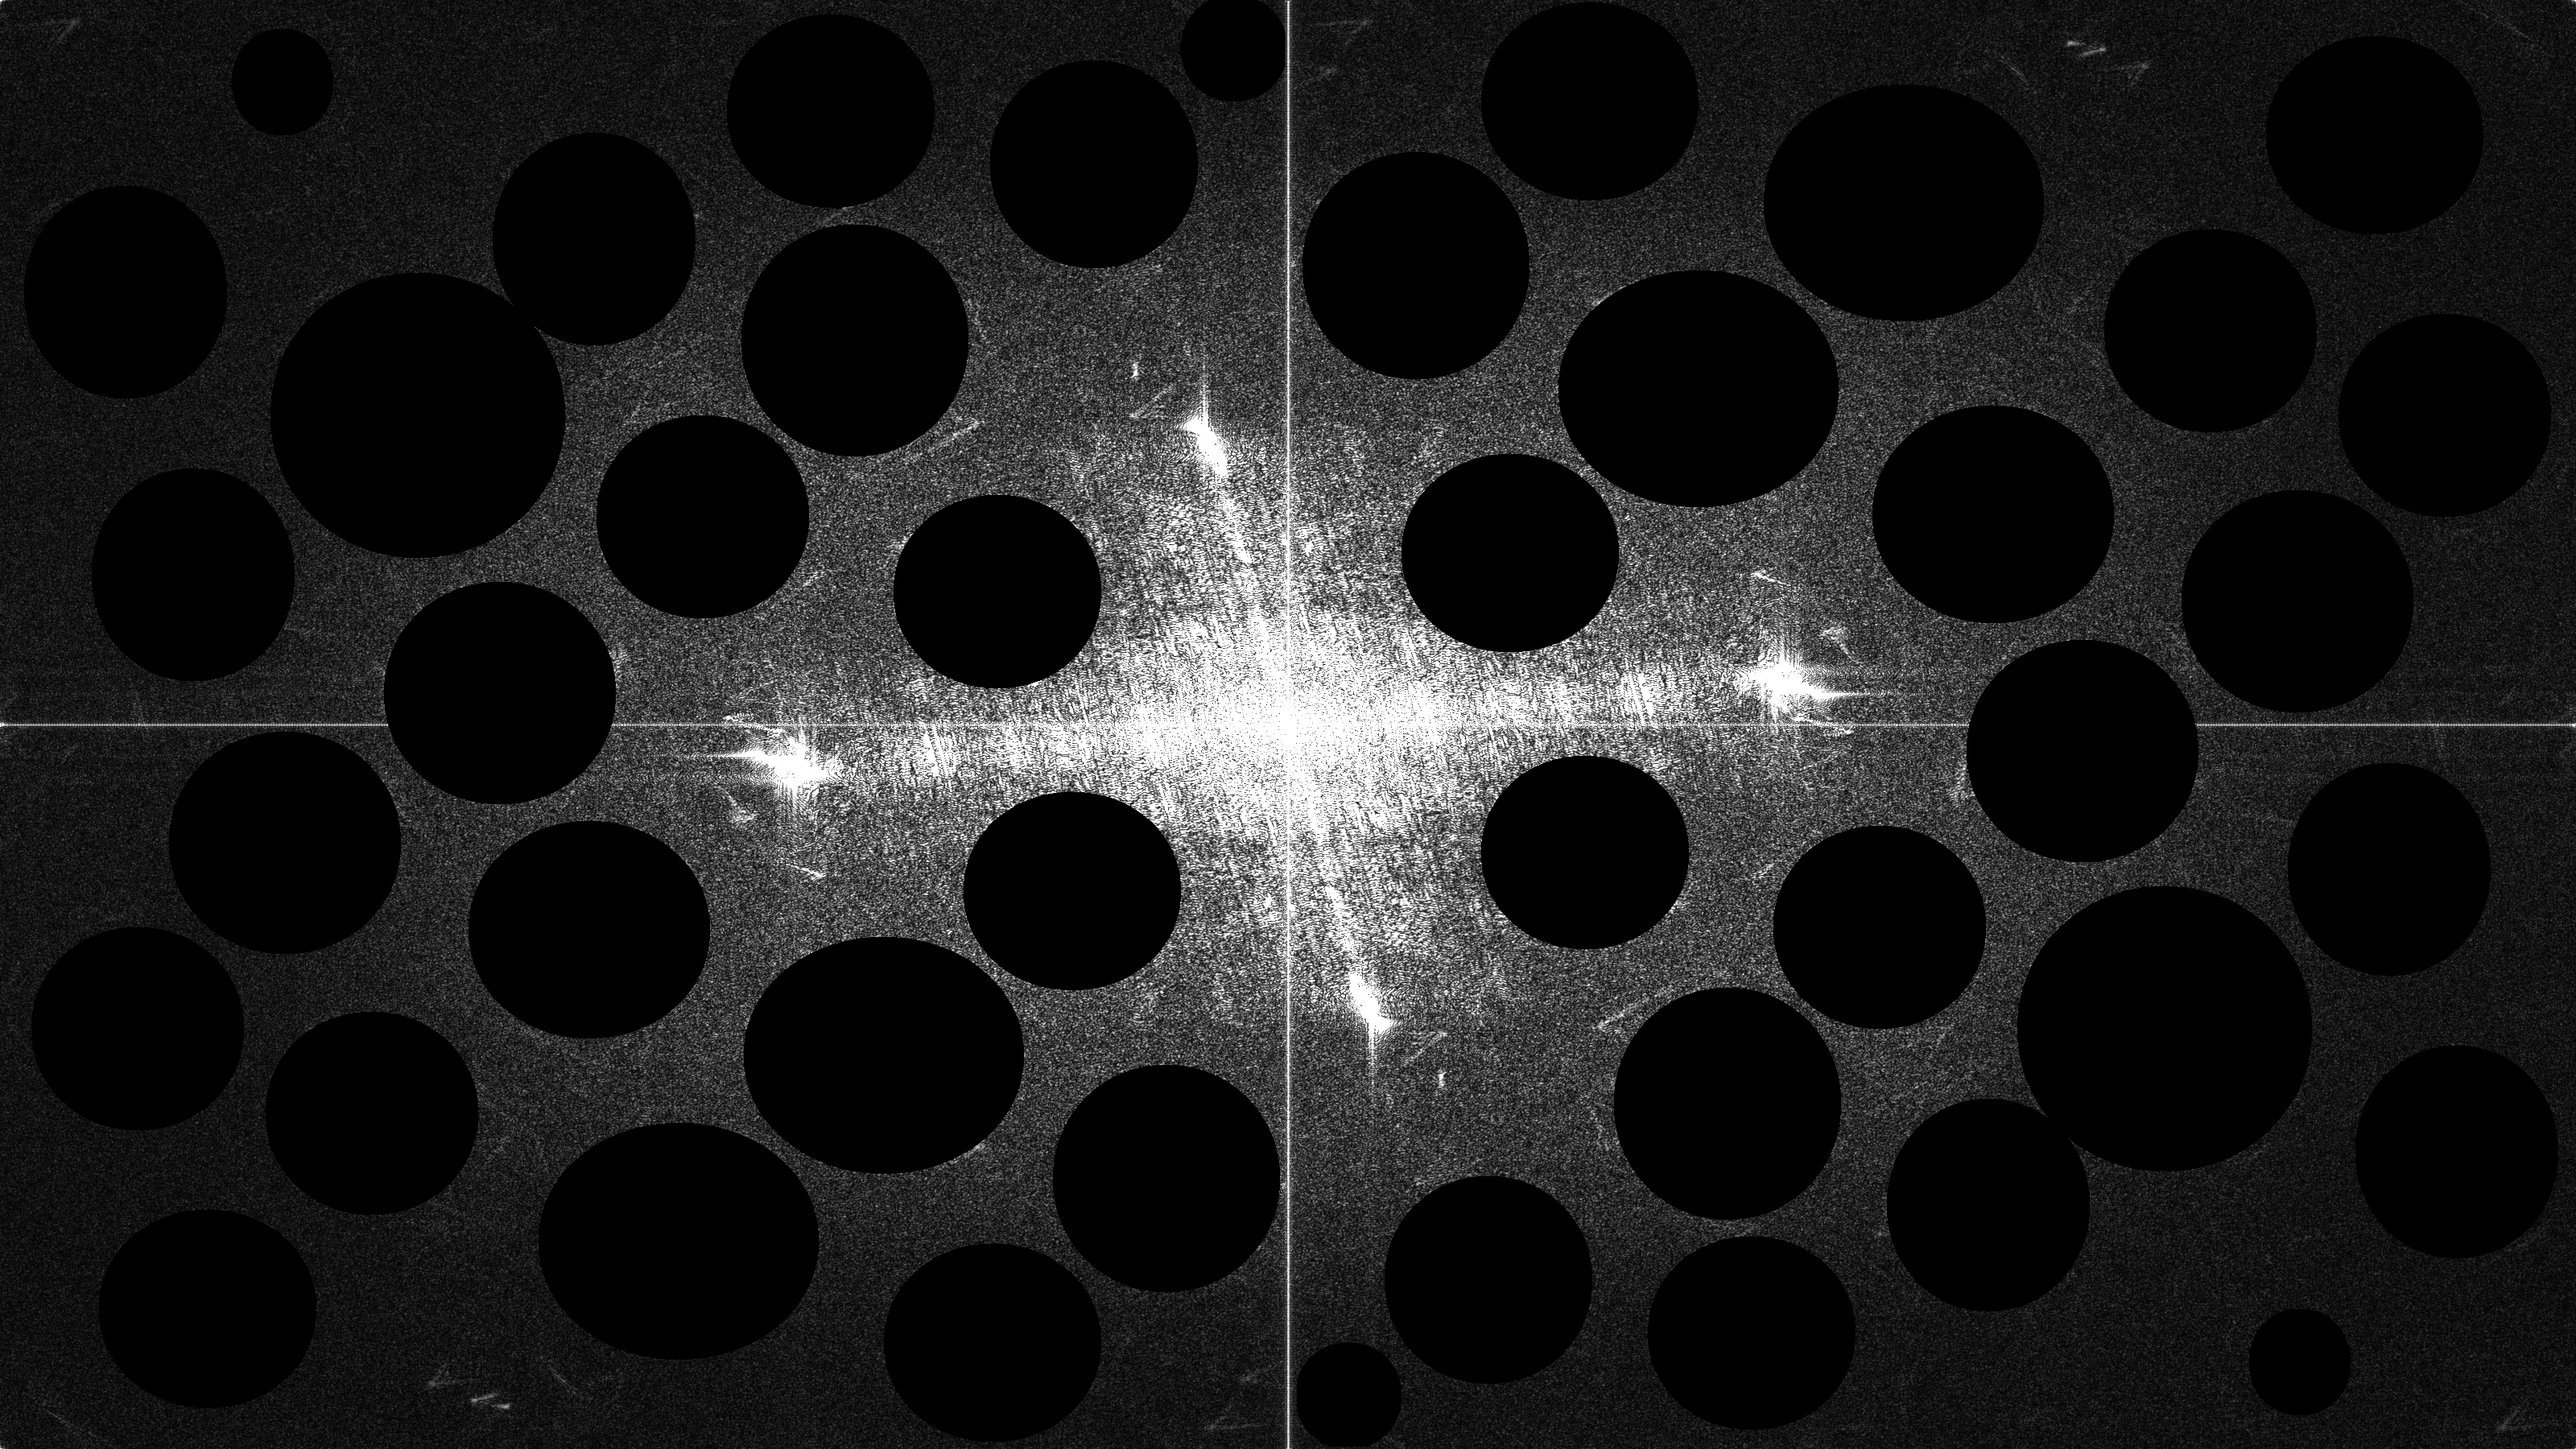
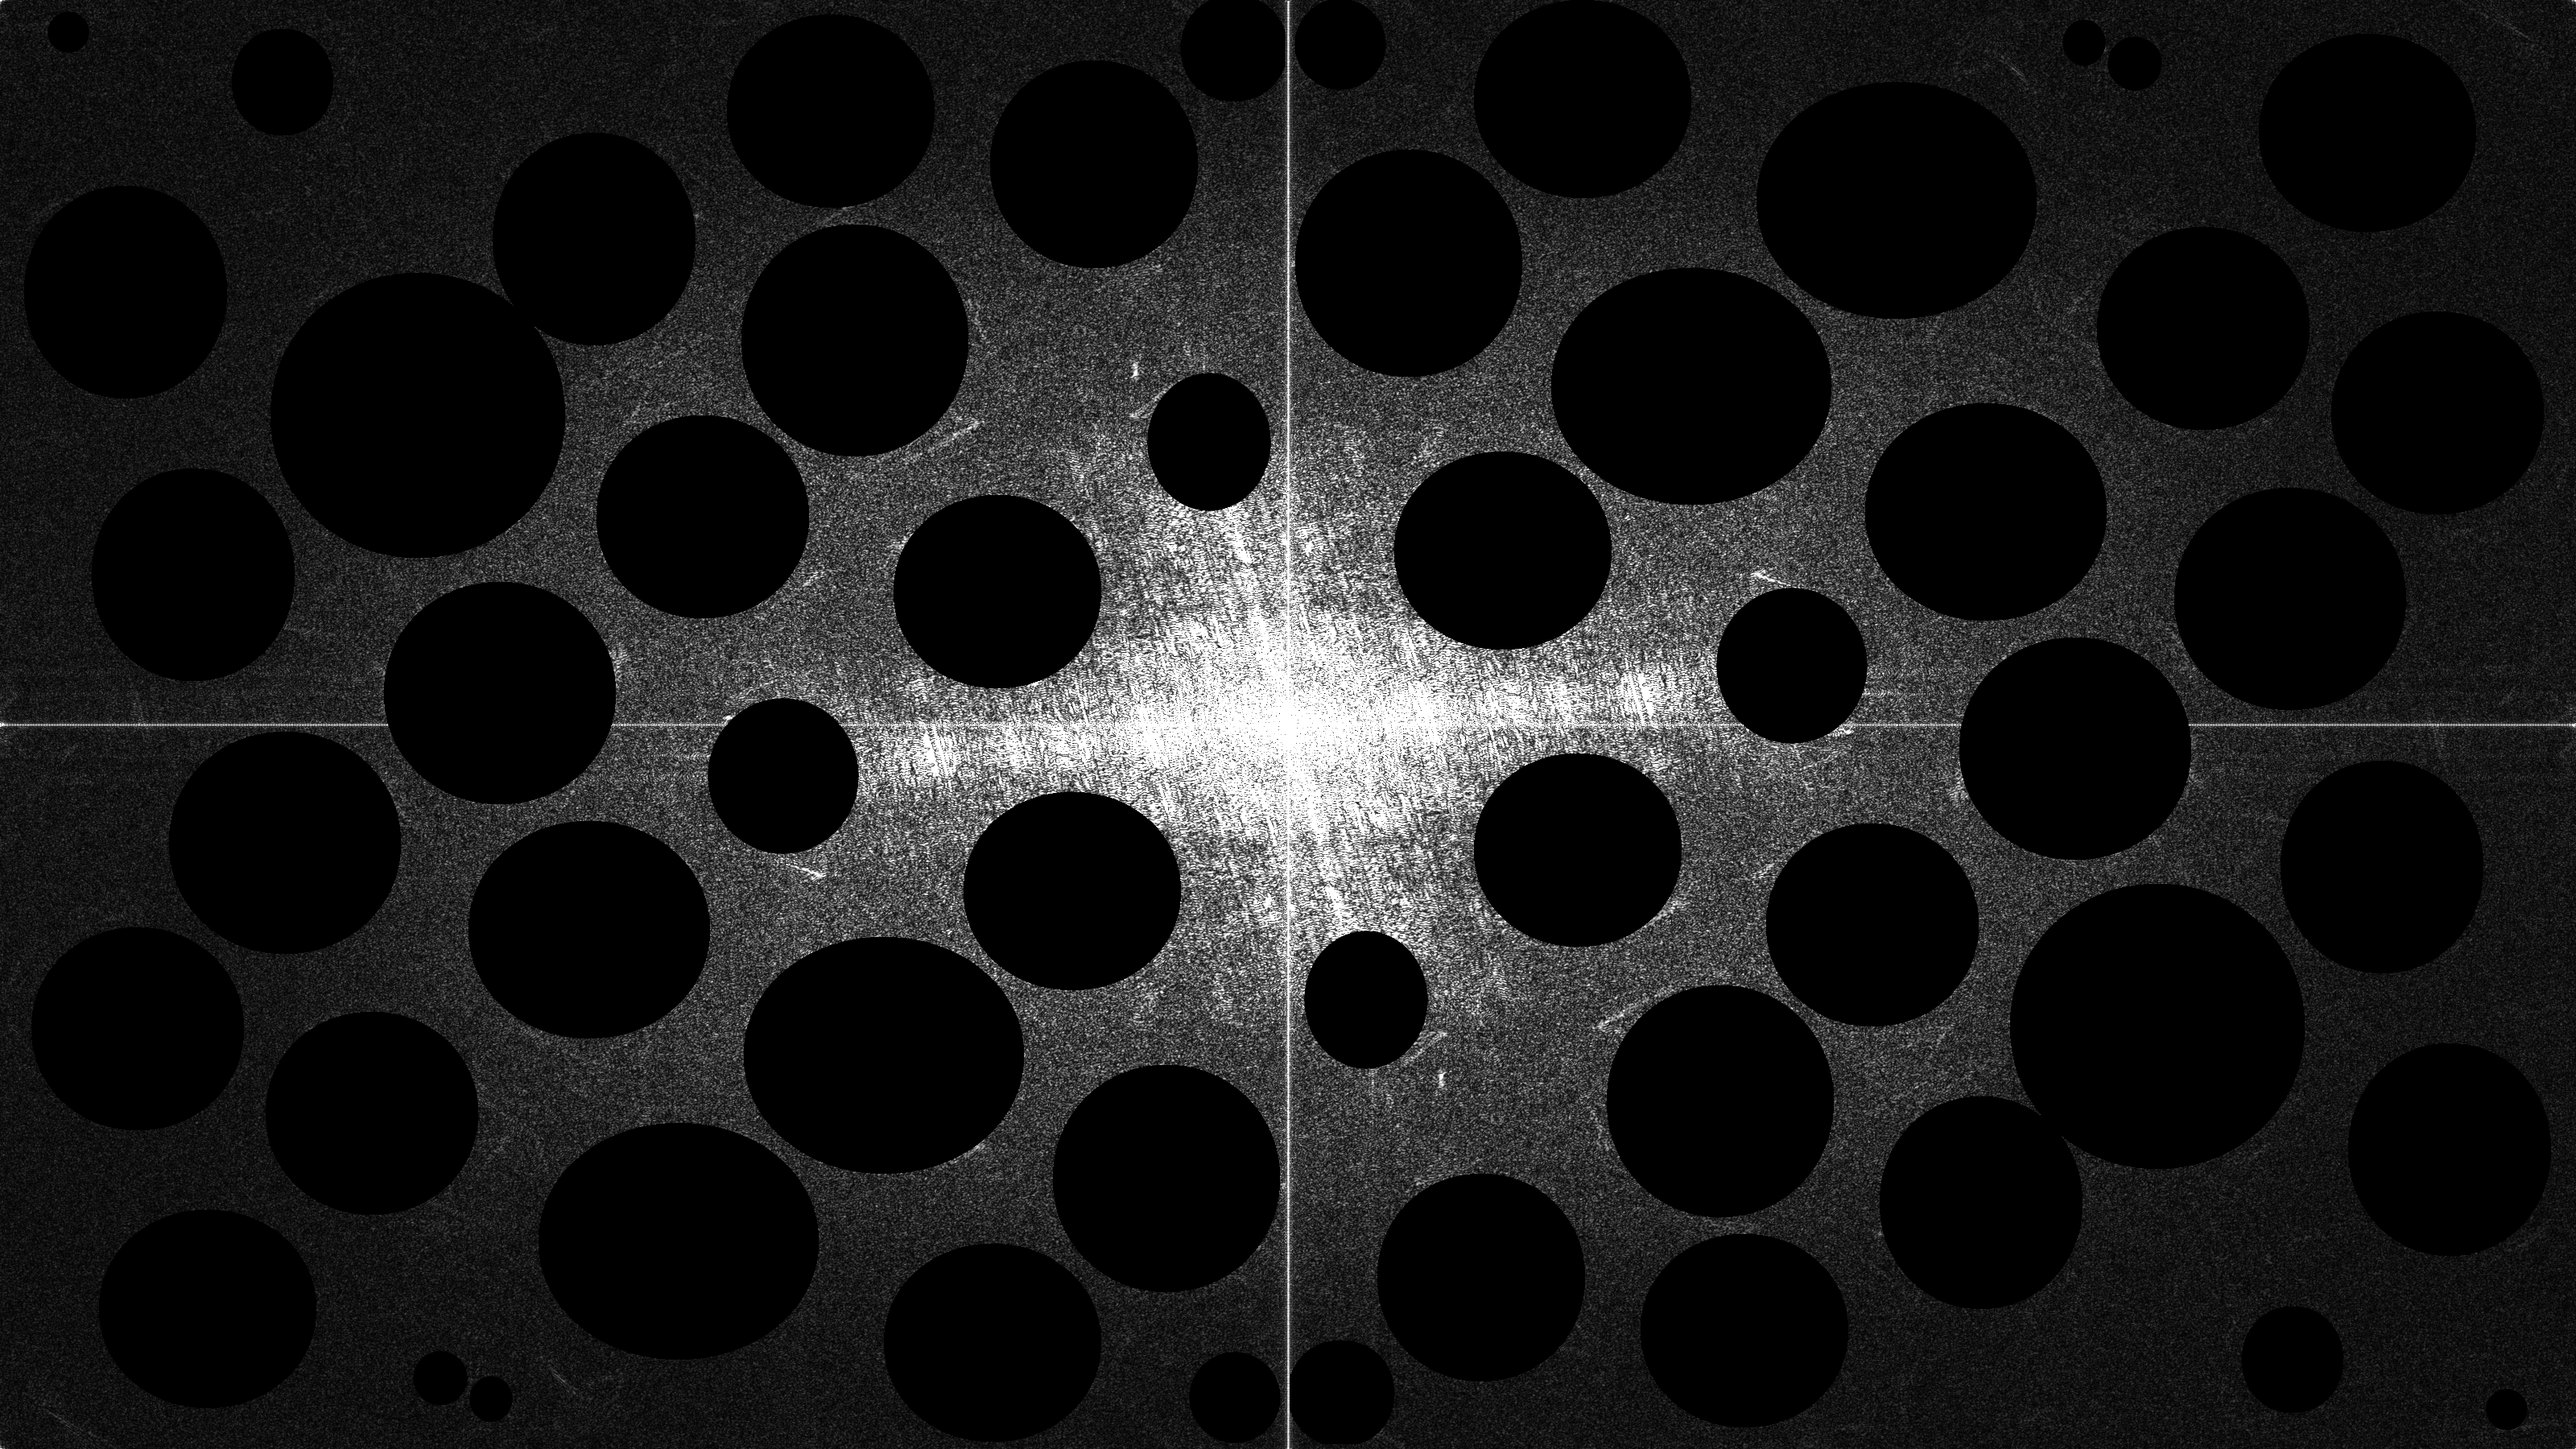
Fix filter

diff --git a/projeto.m b/projeto.m
@@ -1,13 +1,26 @@
 pkg load image
 
+function filter = buildMyNotchFilter(filter, p, q)
+  boxH = 300
+  boxV = 30
+  filter(1:((p/2)-boxV), ((q/2)-4):((q/2)+4)) = 0;
+  filter(((p/2)+boxV):p, ((q/2)-4):((q/2)+4)) = 0;
+
+  filter((p/2)-3:(p/2)+3, 1:(q/2)-boxH) = 0;
+  filter((p/2)-3:(p/2)+3, (q/2)+boxH:q) = 0;
+endfunction
 
 originalRgb = im2double(imread("./imgs/Imagem.jpg"));
 originalHsv = rgb2hsv(originalRgb);
 
+hue = originalHsv(:, :, 1);
+saturation = originalHsv(:, :, 2);
+value = originalHsv(:, :, 3);
+
 
 figure();
 imshow(originalRgb);
-imwrite(originalRgb, './step/0_original.png')
+imwrite(originalRgb, './steps/0_original.png');
 #figure();
 #imshow(originalHsv);
 
@@ -17,7 +30,7 @@ p = (2 * height); # 2m
 q = (2 * width); # 2n
 
 # As dimens?es da transformada s?o 3200x1800
-fftImage = fft2(originalHsv(:, :, 3), p, q); # Aplica a transformada
+fftImage = fft2(value, p, q); # Aplica a transformada
 
 shiftedMatrix = fftshift(fftImage); # Centraliza a transformada
 
@@ -25,29 +38,30 @@ spectre = uint8(abs(shiftedMatrix)); # Calcula o Spectro de Fourier
 
 #figure();
 #imshow(spectre);
-imwrite(spectre, './step/1_spectre.png');
+imwrite(spectre, './steps/1_spectre.png');
 
-filter = im2double(imread("./filter/filter_bw.png"));
-imwrite(filter, './step/2_filter.png');
+filter = im2double(imread("./filter/filter_v2.png"));
+#filter = buildMyNotchFilter(filter, p, q);
+imwrite(filter, './steps/2_filter.png');
 
 filteredMatrix = shiftedMatrix .* filter;
 
 fspectre = uint8(abs(filteredMatrix));
-imwrite(fspectre, './step/3_fspectre.png');
+imwrite(fspectre, './steps/3_fspectre.png');
 
 unshiftedMatrix = ifftshift(filteredMatrix); # Descentraliza a imagem
 
 ifftImage = real(ifft2(unshiftedMatrix)); # Aplica a transformada inversa
-finalResult = originalHsv;
+newValue = ifftImage(1:height, 1:width);
 
-imwrite(ifftImage(1:height, 1:width), './step/4_ifft.png');
-finalResult(:, :, 3)= ifftImage(1:height, 1:width);
+imwrite(newValue , './steps/4_newValue.png');
+finalResult = cat(3, hue, saturation, newValue );
 
 resultImg = hsv2rgb(finalResult);
 
 figure();
 imshow(resultImg);
-imwrite(resultImg , './step/5_result.png');
+imwrite(resultImg , './steps/5_result.png');
 imwrite(resultImg , './output/result.png');
 
 
